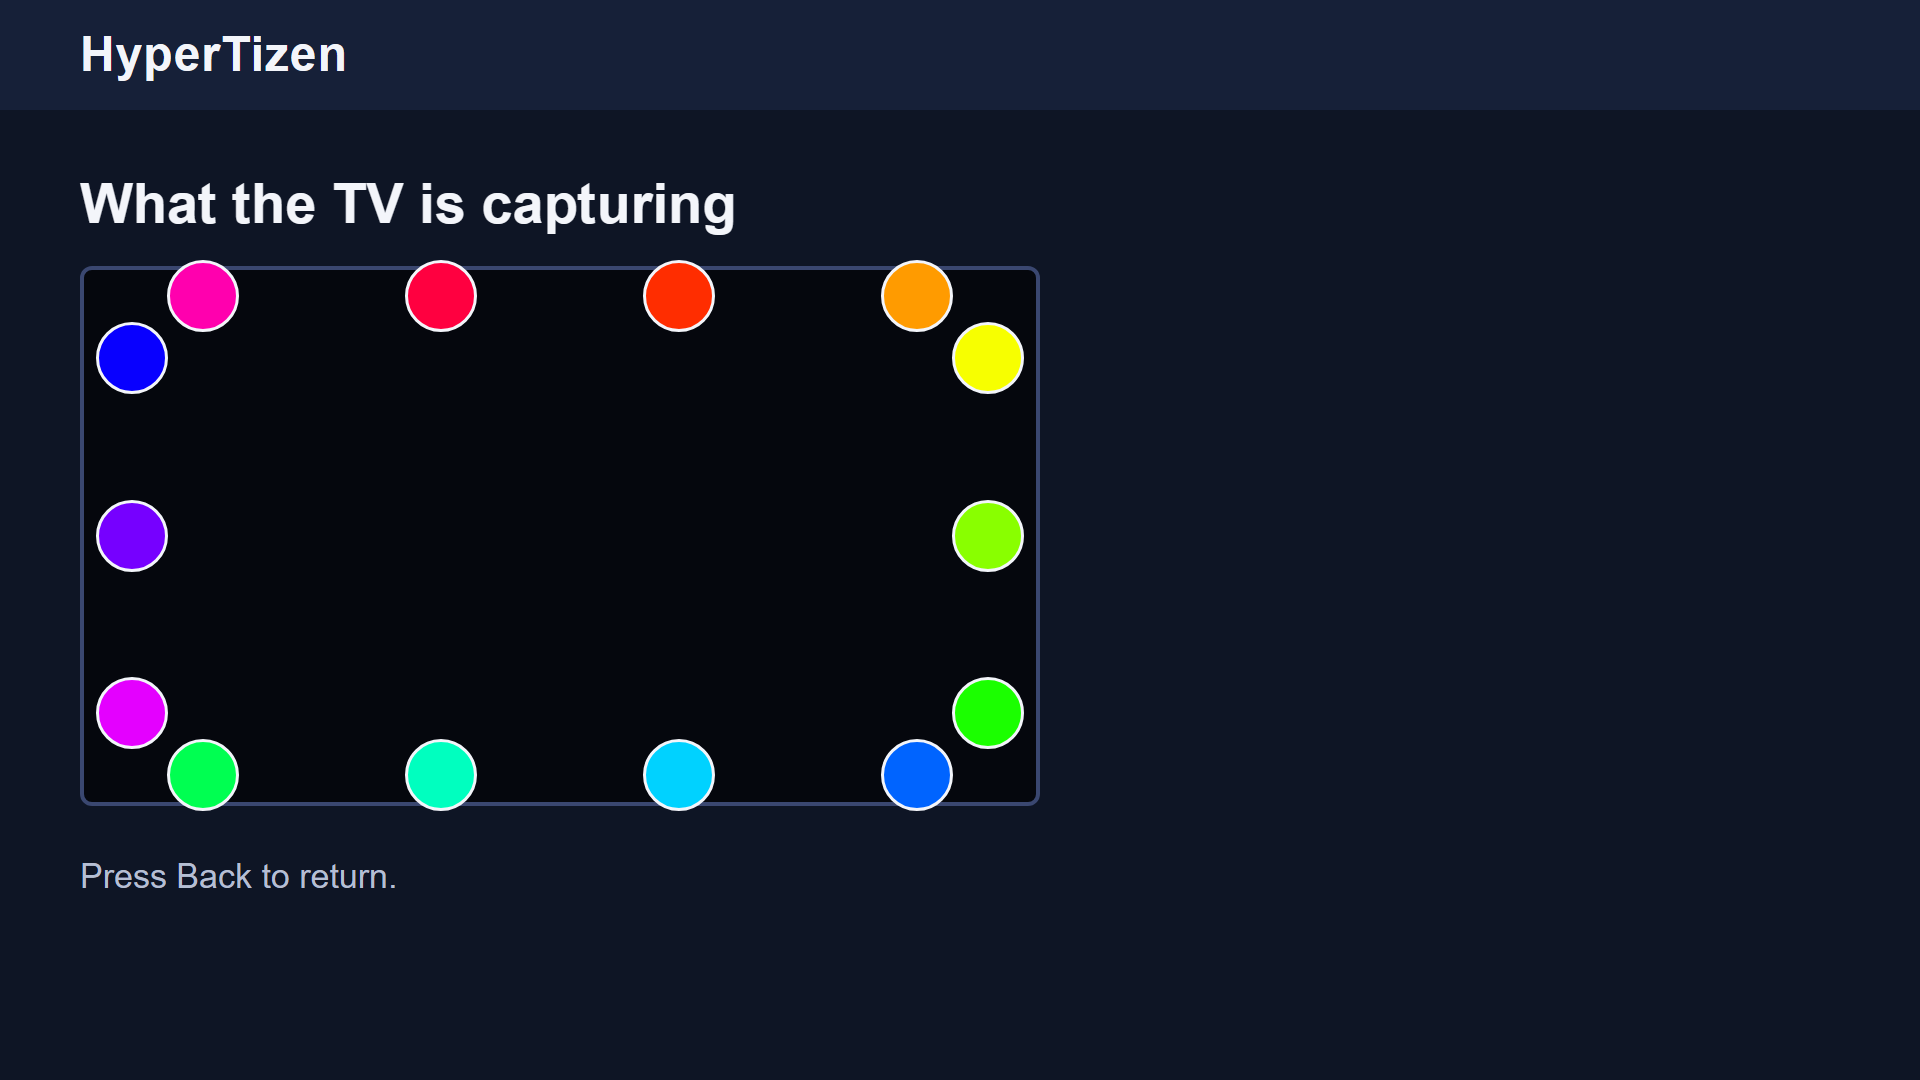
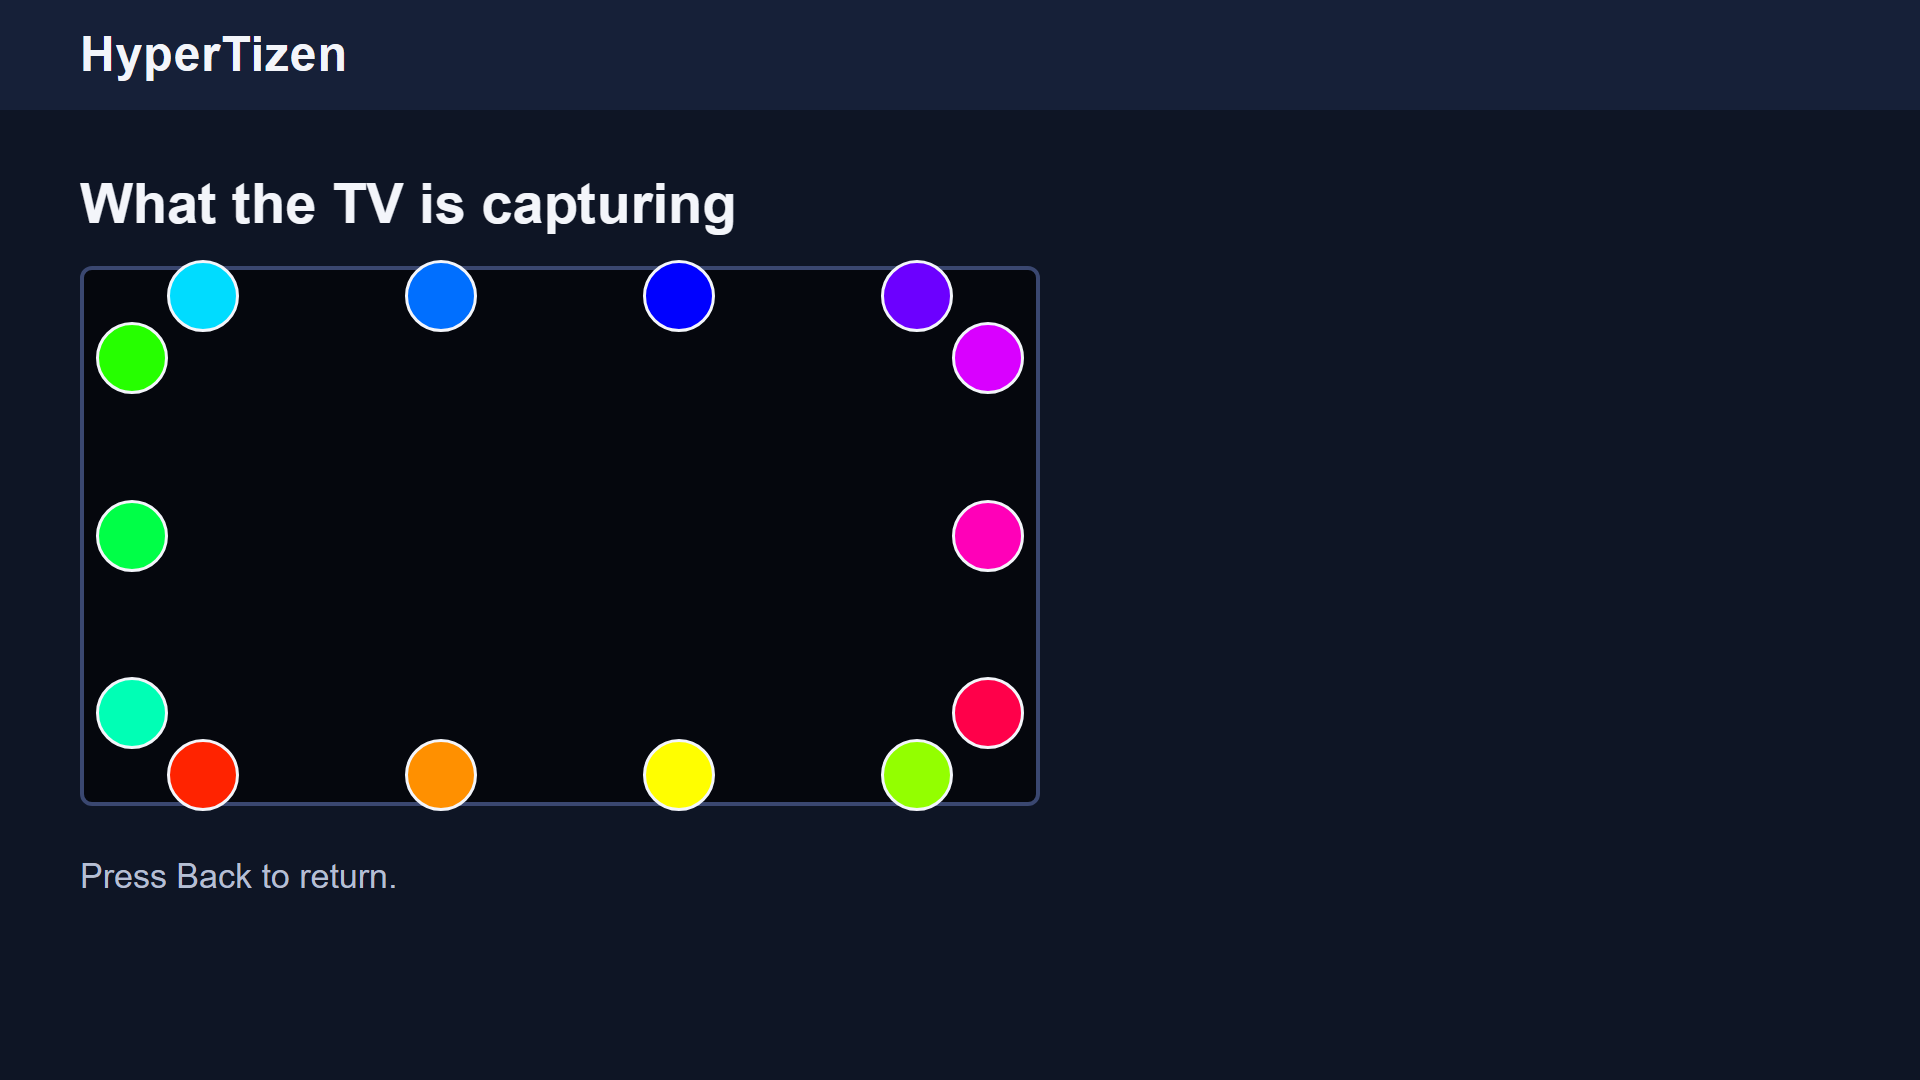
chore: release this as 1.1.1

diff --git a/scripts/ui-smoke.js b/scripts/ui-smoke.js
@@ -322,7 +322,7 @@ async function main() {
   await waitFor('the server is stored again', async () => 'rpcServer' in JSON.parse(fs.readFileSync(settingsFile, 'utf8')));
   await send('Page.navigate', { url: UI_URL + '?service=127.0.0.1' });
   await waitFor('a page with ?service= reaches Home', onScreen('home'), 30000);
-  await waitFor('Home names the service it is watching', async () => (await text('tile-version')) === 'Version 1.2.0 on 127.0.0.1');
+  await waitFor('Home names the service it is watching', async () => (await text('tile-version')) === 'Version 1.1.1 on 127.0.0.1');
   await send('Page.navigate', { url: UI_URL + '?service=127.0.0.2' });
   await waitFor('an unreachable ?service= is not replaced by the local one', async () =>
     (await currentScreen()) === 'screen-connecting' && (await visible('connecting-retry'))

diff --git a/HyperTizenUI/js/app.js b/HyperTizenUI/js/app.js
@@ -2,7 +2,7 @@
 (function (root) {
   'use strict';
   const HT = root.HyperTizen;
-  HT.uiVersion = '1.2.0';
+  HT.uiVersion = '1.1.1';
 
   const SERVICE_APP_ID = 'io.gh.reisxd.HyperTizen';
   const ARROWS = { 37: 'left', 38: 'up', 39: 'right', 40: 'down' };

diff --git a/HyperTizen.Core.Tests/HyperTizenServiceStatusTests.cs b/HyperTizen.Core.Tests/HyperTizenServiceStatusTests.cs
@@ -59,7 +59,7 @@ public class HyperTizenServiceStatusTests
 
         var status = await StatusAsync(ui);
 
-        Assert.Equal("1.2.0", (string?)status["version"]);
+        Assert.Equal("1.1.1", (string?)status["version"]);
         Assert.False((bool)status["enabled"]!);
         Assert.Equal(JTokenType.Null, status["rpcServer"]!.Type);
         Assert.False((bool)status["connected"]!);

diff --git a/docs/README.md b/docs/README.md
@@ -52,7 +52,7 @@ tizen install -n path/to/output/dir/HyperTizenUI-<version>.wgt
 
 ## Upgrading from 1.1.0 or the original project
 
-Up to 1.1.0 the colors along the bottom edge and the left edge were sent in reverse order. From 1.2.0 every color is sent where it is measured. If you reversed those LEDs in your Hyperion or HyperHDR layout to make up for it, undo that.
+Up to 1.1.0 the colors along the bottom edge and the left edge were sent in reverse order. From 1.1.1 every color is sent where it is measured. If you reversed those LEDs in your Hyperion or HyperHDR layout to make up for it, undo that.
 
 The service now measures 14 places by default instead of 16 (the two in the middle of the screen never reached the LEDs). You can change the number of zones per edge under Settings, Capture zones. That screen and Home show how long a frame takes and how many are sent per second, so you can see what a setting costs.
 
